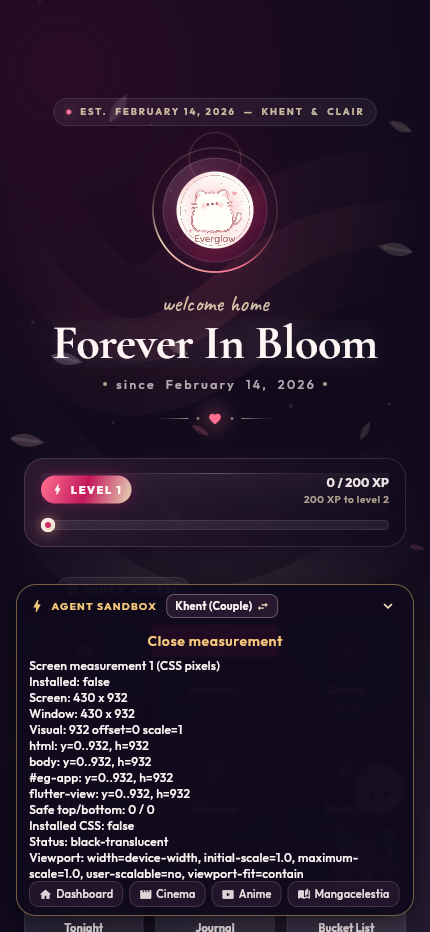
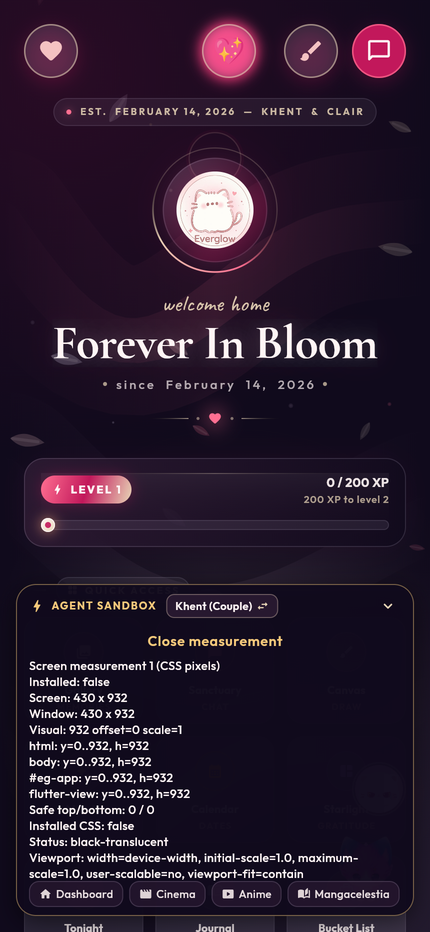
fix(web): preserve demo mode in screen-test installs

diff --git a/tool/generate_sw.dart b/tool/generate_sw.dart
@@ -60,7 +60,7 @@ const PRECACHE=["/index.html"];
 // version probes and Cloud Functions. Only HTML and boot loaders have an
 // offline cache fallback; /api/*, manifests and worker scripts never do.
 const BOOT_LOADERS=["/flutter_bootstrap.js","/flutter.js"];
-const NO_STORE=["/","/index.html","/version.json","/sw.js","/firebase-messaging-sw.js","/flutter.js","/flutter_bootstrap.js","/flutter_service_worker.js","/manifest.json"];
+const NO_STORE=["/","/index.html","/version.json","/sw.js","/firebase-messaging-sw.js","/flutter.js","/flutter_bootstrap.js","/flutter_service_worker.js","/manifest.json","/manifest_screen.json"];
 function isNoStore(path) {
   if (path.startsWith("/api/")) return true;
   for (const n of NO_STORE) if (path === n) return true;

diff --git a/web/sw.js b/web/sw.js
@@ -43,7 +43,7 @@ const PRECACHE=["/index.html"];
 // version probes and Cloud Functions. Only HTML and boot loaders have an
 // offline cache fallback; /api/*, manifests and worker scripts never do.
 const BOOT_LOADERS=["/flutter_bootstrap.js","/flutter.js"];
-const NO_STORE=["/","/index.html","/version.json","/sw.js","/firebase-messaging-sw.js","/flutter.js","/flutter_bootstrap.js","/flutter_service_worker.js","/manifest.json"];
+const NO_STORE=["/","/index.html","/version.json","/sw.js","/firebase-messaging-sw.js","/flutter.js","/flutter_bootstrap.js","/flutter_service_worker.js","/manifest.json","/manifest_screen.json"];
 function isNoStore(path) {
   if (path.startsWith("/api/")) return true;
   for (const n of NO_STORE) if (path === n) return true;

diff --git a/web/index.html b/web/index.html
@@ -39,6 +39,13 @@
 
   <title>Everglow</title>
   <link rel="manifest" href="manifest.json">
+  <script>
+    // A screen-test icon must reopen demo mode even with fresh iOS storage.
+    if (new URLSearchParams(window.location.search).get('screencheck') === '1') {
+      document.querySelector('link[rel="manifest"]').href = 'manifest_screen.json';
+      document.querySelector('meta[name="apple-mobile-web-app-title"]').content = 'Everglow screen test';
+    }
+  </script>
 
   <!-- Early connections: Flutter + Firebase backends first (critical path).
        Media CDNs are NOT preconnected here on purpose — model-viewer/HLS

diff --git a/docs/pr-proof/pr-502/README.md b/docs/pr-proof/pr-502/README.md
@@ -133,3 +133,32 @@ installed metadata is active. Normal user UI does not show this control.
 Keep the PR draft pending device measurements and a verified correction.
 Chromium cannot prove iOS system-bar behavior. Both-edge bleed, physical
 keyboard, and rotation remain unresolved on the reported iPhone.
+
+## Installation correction after the missing-toolbar screenshot
+
+The private iPhone screenshot has no demo HUD and shows normal account progress.
+It also shows a distinct bottom strip; the background appears behind the status
+icons. This does not establish which commit or browser bounds the icon used.
+Do not copy the screenshot or account progress into this public repository.
+
+The normal manifest has `start_url: "."`, which drops demo query parameters on
+installed launch. Saved Safari demo preferences were an unreliable prerequisite
+for reaching the measurement panel. An explicit `screencheck=1` link now selects
+`manifest_screen.json` and the name **Everglow screen test**. That separate
+manifest's launch URL always includes `agent=dashboard&screencheck=1`, so it
+activates demo mode without transferred Safari preferences. Normal installs
+retain the original manifest and start URL. Both manifests bypass worker caching
+and revalidate hosting responses.
+
+The bootstrap regression checks ordinary/agent-only/screen-test selection and
+the demo launch parameters. Nine bootstrap tests, all 1,531 VM/widget tests,
+and all 14 worker tests (zero skipped, real Chrome offline boot included)
+passed. Analysis has zero issues; all 15 listed Dart guards passed.
+`flutter build web --release --no-pub` passed. In T3 Chromium at 430 x 932,
+cleared only the isolated local demo browser's state, then opened the screen-test
+launch URL. Verified the selected manifest, its explicit demo launch URL, and
+the install title **Everglow screen test**; the demo Dashboard and Screen edges
+panel appeared without prior preferences. The refreshed proof image is from
+that launch. This tests manifest selection and fresh-session launch, not iOS
+installation. A physical iPhone launch is still required to verify the system
+areas and the new installation flow.
